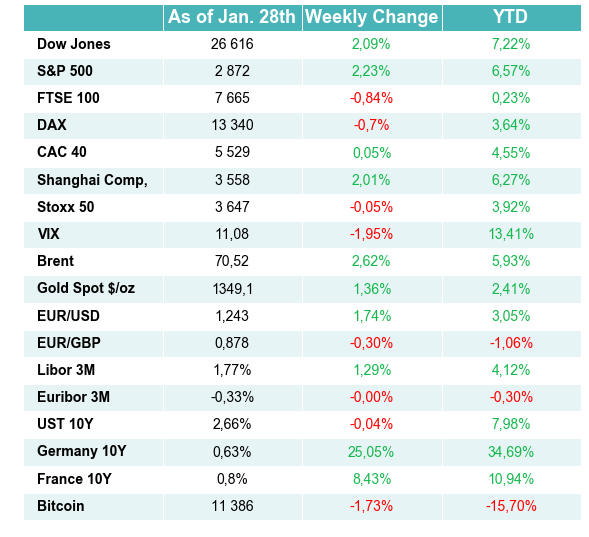
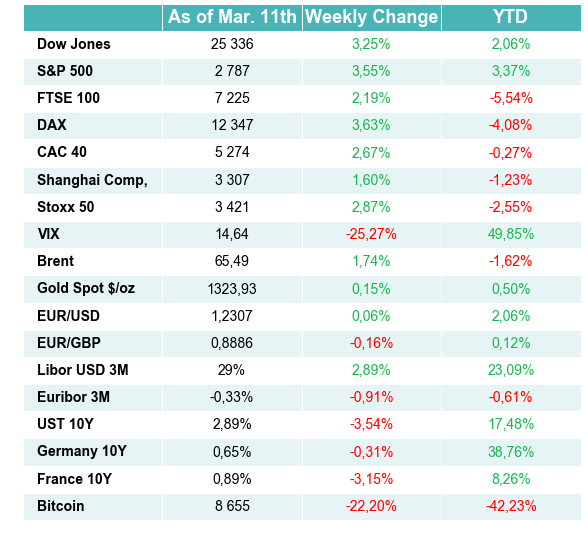
change of yields in bp

diff --git a/scraper.py b/scraper.py
@@ -13,33 +13,47 @@ from bs4 import BeautifulSoup
 from urllib.request import urlopen
 import pandas as pd
 from time import sleep
+from random import randint
 from tickers import TICKERS
 from graph import to_table, save_fig
 import numpy as np
 import locale
+
 #%%
+
 # function meant to scrap the prices
 def scraper(ticker, asset_class):
+    
+    """
+    Depending on the asset class, the source for the scrap is different.
+    We need to wait some time between the scraping queries to avoid being
+    blacklisted from websites.
+    """
+
     if asset_class in ("Yield","Commo","Index","FX"):
         print(ticker)
         url = "https://www.bloomberg.com/quote/%s"%(ticker)
         myclass="price"
         page = urlopen(url)
-        sleep(5)
+        sleep(randint(1,3))
         soup = BeautifulSoup(page,"lxml")
         prices = soup.find(class_="price")
         price = prices.get_text()
+           
+        #special adjustment for the yields
         if asset_class == 'Yield':
             price=str(float(price)/100)
+            
     elif asset_class == 'Rate':
         url = "http://www.global-rates.com/interest-rates/"+ ticker
         myclass = "tabledata1"
         page = urlopen(url)
-        sleep(5)
+        sleep(randint(1,3))
         soup = BeautifulSoup(page,"lxml")
         data = soup.find(class_=myclass)
         price = data.find(align='center').get_text()
         price = str(float(price.replace('\xa0%',''))/100)
+        
     else:
         print("Asset class not recognized")
     return price
@@ -47,32 +61,48 @@ def scraper(ticker, asset_class):
 # Clean data
 def clean_data(price_list):
     price_list=[s.replace('N/A','NaN') for s in price_list]
+    # delete tbe thousdands comma
     price_list=[s.replace(',','') for s in price_list]
+    # convert every string to float
     price_list=list(map(float,price_list))
     return price_list
 
 # ComputingTable is the csv meant to store the computations
 # Laod csv, update prices, and save
 def compute_data(price_list,path):
-    ComputingTable = pd.read_csv(path+"ComputingTable.csv", encoding='latin1', index_col=0)
-    ComputingTable['Today'] = price_list              
-    ComputingTable['Weekly Change'] = (ComputingTable['Today']-ComputingTable['Last Week'])/ComputingTable['Last Week']
-    ComputingTable['YTD'] = (ComputingTable['Today']-ComputingTable['As of Jan 2nd'])/ComputingTable['As of Jan 2nd']
+    ComputingTable = pd.read_csv(path+"MyComputingTable.csv", sep=",", encoding='latin1', index_col=0)
+    ComputingTable['Today'] = price_list  
+         
+    # Weekly change
+    ComputingTable.iloc[:12]['Weekly Change'] = (ComputingTable.iloc[:12]['Today']-ComputingTable.iloc[:12]['Last Week'])/ComputingTable.iloc[:12]['Last Week']
+    ComputingTable.iloc[17]['Weekly Change'] = (ComputingTable.iloc[17]['Today']-ComputingTable.iloc[17]['Last Week'])/ComputingTable.iloc[17]['Last Week']
+    ComputingTable.iloc[12:17]['Weekly Change'] = (ComputingTable.iloc[12:17]['Today']-ComputingTable.iloc[12:17]['Last Week'])*10000
+    # YTD
+    ComputingTable.iloc[:12]['YTD'] = (ComputingTable.iloc[:12]['Today']-ComputingTable.iloc[:12]['As of Jan 2nd'])/ComputingTable.iloc[:12]['As of Jan 2nd']
+    ComputingTable.iloc[17]['YTD'] = (ComputingTable.iloc[17]['Today']-ComputingTable.iloc[17]['As of Jan 2nd'])/ComputingTable.iloc[17]['As of Jan 2nd']
+    ComputingTable.iloc[12:17]['YTD'] = (ComputingTable.iloc[12:17]['Today']-ComputingTable.iloc[12:17]['As of Jan 2nd'])/ComputingTable.iloc[12:17]['As of Jan 2nd']
+    
     ComputingTable['Last Week'] = ComputingTable['Today']
-    ComputingTable.to_csv(path+"ComputingTable.csv")
-    return ComputingTable
+    ComputingTable.to_csv(path+"MyComputingTable.csv")
+    return 
+
 #%%
 # Table is the table of data meant to be copy psated on the newsletter
 def format_table(ComputingTable,path):
     Table = pd.DataFrame()
-    Table['Securities']=ComputingTable.index
-    Table['Today']=ComputingTable['Today'].values
-    Table['Weekly Change']=ComputingTable['Weekly Change'].values
+    Table['Securities'] = ComputingTable.index
+    Table['Today'] = ComputingTable['Today'].values
+    Table['Weekly Change'] = ComputingTable['Weekly Change'].values
     Table['YTD'] = ComputingTable['YTD'].values
+    
     for i in range(12,len(Table)-1):
-        Table['Today'][i]=pd.Series(Table['Today'][i]*100).apply('{0:.2f}%'.format)[0]
+        Table['Today'][i] = pd.Series(Table['Today'][i]*100).apply('{0:.2f}%'.format)[0]
+        
     for col in ['YTD','Weekly Change']:
-        Table[col] = pd.Series(["{0:.2f}%".format(val * 100) for val in Table[col]], index = Table.index)
+        Table.loc[:11,col] = pd.Series(["{0:.2f}%".format(val * 100) for val in Table.iloc[:12][col]], index = Table.iloc[:12].index)
+        Table.loc[17:,col] = pd.Series(["{0:.2f}%".format(val * 100) for val in Table.iloc[17:][col]], index = Table.iloc[17:].index)
+        Table.loc[12:16,col] = pd.Series(["{0:.2f} bp".format(val * 100) for val in Table.iloc[12:17][col]], index = Table.iloc[12:17].index)
+        
     #decimals = pd.Series([0,2,2, 2], index=['Securities', 'Today', 'Weekly Change', 'YTD'])
     #Table=Table.round(decimals)     
     for i in range(7):
@@ -83,8 +113,30 @@ def format_table(ComputingTable,path):
     Table['Today'][17]='{:,}'.format(Table['Today'][17]).replace(',',' ')
     TableStr=Table.astype(str)
     TableStr=TableStr.applymap(lambda x: str(x.replace('.',',')))
-    TableStr['Today']=TableStr['Today'].map(lambda x: str(x.replace(',0','')))
+    TableStr['Today'][:9]=TableStr['Today'][:9].map(lambda x: str(x.replace(',0','')))
     TableStr.to_csv(path+"ValuesTable.csv")
     save_fig(to_table(TableStr,'Table'),'Table.png',path)
     return TableStr
 
+#%%
+
+
+L=[24538.00,
+2691.00,
+7070.00,
+11914.00,
+5137.00,
+3255.00,
+3325.00,
+19.59,
+64.37,
+1322.00,
+1.23,
+0.89,
+0.23,
+0.00,
+0.03,
+0.01,
+0.01,
+11124.00,
+]

diff --git a/graph.py b/graph.py
@@ -20,7 +20,8 @@ def to_table(data, title, col_width=2.5, row_height=0.5, font_size=14,
         fig, ax = plt.subplots(figsize=size);
         ax.axis('off');
     #plt.title(title);
-    col_header = ['', 'As of '+ calendar.month_name[datetime.today().month][:3]+'. '+str(datetime.today().day)+ "th" ,'Weekly Change', 'YTD']
+    day = 'As of '+ calendar.month_name[datetime.today().month][:3]+'. '+str(datetime.today().day)+ "th"
+    col_header = ['', day ,'Weekly Change', 'YTD']
     col_labels = tuple(col_header)
     mpl_table = ax.table(cellText=data.values, bbox=bbox, colLabels=col_labels, cellLoc='center', **kwargs);
     mpl_table.auto_set_font_size(False);
@@ -49,4 +50,5 @@ def to_table(data, title, col_width=2.5, row_height=0.5, font_size=14,
     return fig;
 
 def save_fig(fig,name,path):
-    fig.savefig(path+name,bbox_inches='tight',pad_inches=0.0)
+        #day = '_As of '+ calendar.month_name[datetime.today().month][:3]+'.'+str(datetime.today().day)+ "th"
+        fig.savefig(path+name,bbox_inches='tight',pad_inches=0.0)

diff --git a/main.py b/main.py
@@ -11,16 +11,16 @@ from scraper import scraper, clean_data, compute_data,format_table
 import pandas as pd
 from tickers import TICKERS
 
-#%%
+#%% 8,654.8
 def main():
-    path = "C:\\Users\Arthur\Documents\Studies\ParisDauphineUniversity\Master203\\Newsletter\\"
+    path = "C:\\Users\Arthur\Documents\Studies\ParisDauphineUniversity\Master203\\Newsletter\\Scraper\\data\\"
     price_list = []
     for ticker, sec in TICKERS.items():
         print(ticker)
         price_list.append(scraper(ticker,sec))
     price_list = clean_data(price_list)
     ComputingTable = compute_data(price_list,path)
-    TableStr = format_table(ComputingTable, path)
+    TableStr = format_table(ComputingTable, "C:\\Users\Arthur\Documents\Studies\ParisDauphineUniversity\Master203\\Newsletter\\Scraper\\pictures\\")
     return TableStr
 
 if __name__ == "__main__":
